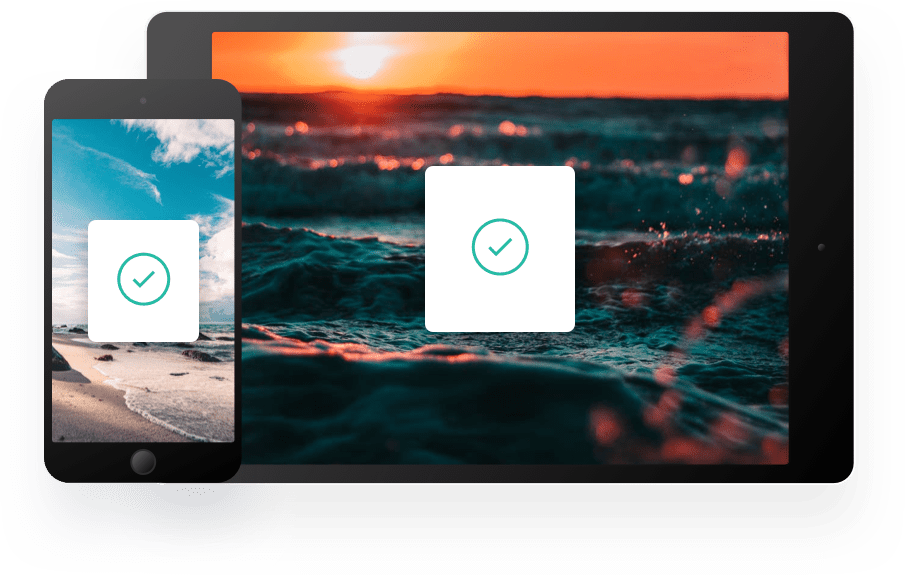
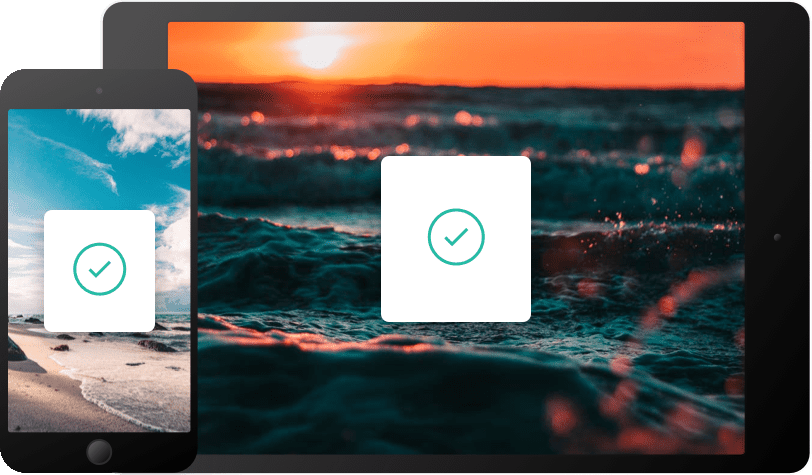
Added Access Clipboard Anywhere section and cropped the image

diff --git a/src/index.html b/src/index.html
@@ -10,7 +10,7 @@
   </head>
   <body>
     <header class="header">
-      <img src="images/logo.svg" alt="" class="header__logo" />
+      <img src="images/logo.svg" alt="Clipboard logo" class="header__logo" />
       <h1 class="header__heading">A history of everything you copy</h1>
       <p class="header__paragraph text-center">
         Clipboard allows you to track and organize everything you copy. Instantly access your
@@ -31,7 +31,11 @@
         </p>
       </div>
       <div class="illustration-section">
-        <img src="images/image-computer.png" alt="Computer" class="illustration-section__img" />
+        <img
+          src="images/image-computer.png"
+          alt="Apple desktop device"
+          class="illustration-section__img"
+        />
         <div class="illustration-section__body">
           <div class="">
             <h3 class="illustration-section__heading">Quick Search</h3>
@@ -67,15 +71,16 @@
           in a few simple clicks.
         </p>
       </div>
+      <img
+        src="images/image-devices.png"
+        alt="Mobile devices"
+        class="section__img section__img--devices"
+      />
     </section>
   </body>
 </html>
 
 <!-- 
-  
-
-  
-
   Supercharge your workflow
 
   We’ve got the tools to boost your productivity.

diff --git a/src/styles/layout/_section.scss b/src/styles/layout/_section.scss
@@ -9,7 +9,22 @@
   padding-left: 2rem;
   padding-right: 2rem;
 
+  &__img {
+    &--devices {
+      margin-top: 4rem;
+
+      width: min(100%, 56.5625rem);
+      height: auto;
+    }
+  }
+
   @include media('>=large') {
     padding: 0;
+
+    &__img {
+      &--devices {
+        margin-top: 6.875rem;
+      }
+    }
   }
 }
